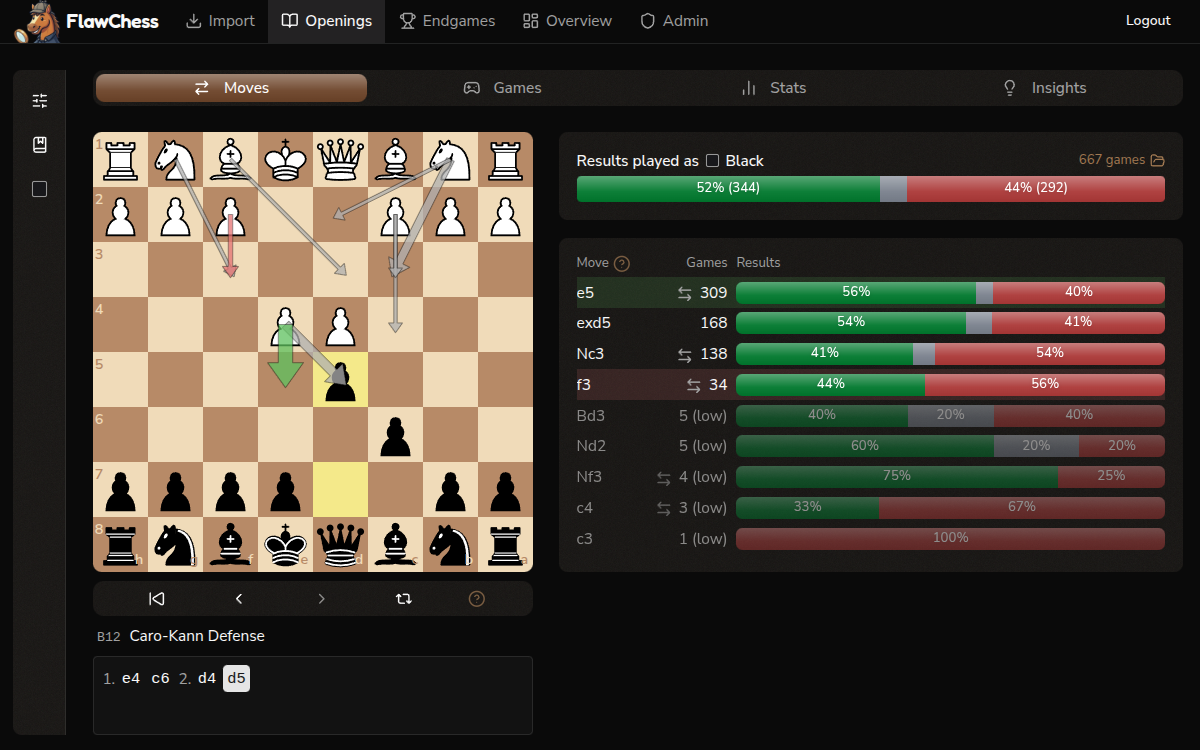
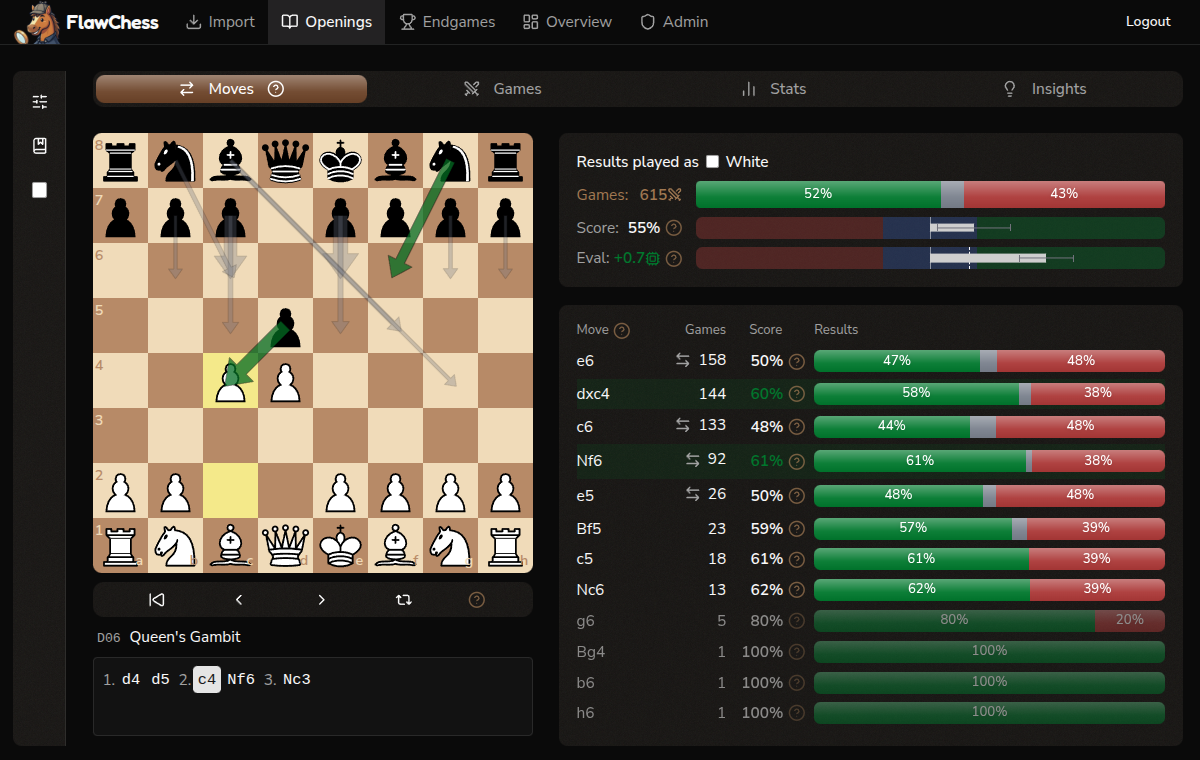
docs(home): rework homepage copy after Stockfish integration
Promote Opening Explorer to hero feature, tighten subtitle and bullets to
verb-first phrasing, replace 'all-in-one' overpromise with 'across your
games' framing, add chess-engine FAQ entry and Stockfish acknowledgement,
refresh opening-explorer screenshot.

diff --git a/frontend/src/pages/Home.tsx b/frontend/src/pages/Home.tsx
@@ -18,7 +18,8 @@ import { cn } from '@/lib/utils';
 import { Scale, Filter, TrophyIcon, Timer, Compass, Loader2, UserPlus, DoorOpen } from 'lucide-react';
 import type { LucideIcon } from 'lucide-react';
 
-// Feature sections — imagePosition alternates right/left so text and image swap sides on desktop.
+// Feature sections — the first entry is rendered in the hero (desktop right column +
+// mobile standalone section); the rest alternate image left/right below.
 // All screenshots are landscape orientation with a 2fr/3fr text/image ratio.
 const FEATURES: {
   slug: string;
@@ -33,11 +34,24 @@ const FEATURES: {
     icon: Compass,
     heading: 'Opening Explorer & Insights',
     desc: [
-        "Step through any opening and see your win/draw/loss rate for every move you\u2019ve played.",
-        'Automatically scan all your games 16 half-moves deep to surface opening strengths and weaknesses.',
-        "Scout your opponents\u2019 weaknesses and tendencies before a match.",
+        'Get a detailed statistical analysis for every move you’ve played.',
+        'Compare your win/draw/loss rate to the Stockfish evaluation at the end of the opening.',
+        'Scan the first 8 moves of all your games to surface opening strengths and weaknesses.',
+        'Scout your opponent\'s repertoire before a match.',
     ],
-    screenshot: { src: '/screenshots/opening-explorer.png', alt: 'Board with move explorer showing win/draw/loss bars per candidate move' },
+    screenshot: { src: '/screenshots/opening-explorer.png', alt: 'Board with move explorer showing win/draw/loss rate and stockfish evaluation per candidate move' },
+    imagePosition: 'right',
+  },
+  {
+    slug: 'endgame-analytics',
+    icon: TrophyIcon,
+    heading: 'Endgame Analytics',
+    desc: [
+      'Measure how well you convert winning endgames and recover from losing ones.',
+      'Track your Endgame ELO over time by platform and time control.',
+      'Get personalized feedback on what your stats mean.',
+    ],
+    screenshot: { src: '/screenshots/endgame-metrics-and-elo-llm-badge.png', alt: 'Endgame metrics and Endgame ELO timeline over time' },
     imagePosition: 'left',
   },
   {
@@ -46,8 +60,8 @@ const FEATURES: {
     heading: 'Time Management Stats',
     desc: [
         'See your average time advantage or deficit when entering the endgame.',
-        'Find out if you crack more than your opponents under matching time-pressure levels.',
-        'Track whether you flag more or less than your opponents per time control.',
+        'Find out if you crack under time pressure more than your opponents.',
+        'Compare your flag rate to your opponents\' per time control.',
     ],
     screenshot: { src: '/screenshots/time-management-stats.png', alt: 'Average clock difference over time and time-pressure-vs-performance charts' },
     imagePosition: 'right',
@@ -58,8 +72,8 @@ const FEATURES: {
     heading: 'Opening Comparison and Tracking',
     desc: [
         'Bookmark your favorite openings and compare their performance.',
-        'Find out how your opening study impacts your win rate over time.',
-        'Use the filters to see which openings work best for which time controls.',
+        'See how your opening study impacts your win rate over time.',
+        'Filter by time control to find which openings work best where.',
     ],
     screenshot: { src: '/screenshots/opening-comparison.png', alt: 'Win rate trends over time for multiple openings' },
     imagePosition: 'left',
@@ -69,9 +83,9 @@ const FEATURES: {
     icon: Filter,
     heading: 'System Opening Filter',
     desc: [
-        'You play the London, but your analysis tool scatters your games across 5 different opening names.',
-        "FlawChess lets you filter by your pieces only, ignoring your opponent\u2019s responses.",
-        'Calculate win/draw/loss rates for your system openings across all variations.',
+        'Group system openings (like the London) across all variations.',
+        'Filter by your pieces only, ignoring opponents\' responses.',
+        'Get win/draw/loss rates for the entire system, not scattered names.',
     ],
     screenshot: { src: '/screenshots/system-openings.png', alt: 'Opening bookmarks grouping system opening variations' },
     imagePosition: 'right',
@@ -79,6 +93,14 @@ const FEATURES: {
 ];
 
 // ─── Homepage content (unauthenticated) ───────────────────────────────────────
+
+// Hero shows the first feature in its right column (desktop) and as a standalone
+// charcoal section (mobile). The remaining features render in the alternating
+// screenshots grid below.
+const heroFeature = FEATURES[0]!;
+const featureSections = FEATURES.slice(1);
+const HeroIcon = heroFeature.icon;
+const heroDescItems = Array.isArray(heroFeature.desc) ? heroFeature.desc : [heroFeature.desc];
 
 export function HomePageContent() {
   const { loginAsGuest, isLoading } = useAuth();
@@ -117,7 +139,7 @@ export function HomePageContent() {
               </span>
             </h1>
             <p className="mt-4 text-base leading-relaxed text-muted-foreground">
-              Import games from chess.com and lichess. Explore openings move by move, track endgame performance, and find exactly where you win and lose.
+              Free analysis across your chess.com and lichess games, with AI-narrated insights. Find leaks in your openings, endgames, and time management.
             </p>
             <div className="mt-8 flex flex-row items-center justify-center gap-3">
               <Button
@@ -163,54 +185,53 @@ export function HomePageContent() {
             </div>
           </div>
 
-          {/* Right column: Endgame Analytics preview — lg and up only.
+          {/* Right column: hero feature preview — lg and up only.
               Title → image → bullets stacking matches the feature sections below.
               Below lg the preview renders as a standalone charcoal section further down. */}
-          <div data-testid="hero-endgame-preview" className="hidden lg:block">
-            <h2 className="text-2xl font-bold mb-4">Endgame Analytics</h2>
+          <div data-testid="hero-feature-preview" className="hidden lg:block">
+            <div className="flex items-center gap-4 mb-4">
+              <HeroIcon className="h-10 w-10 text-muted-foreground shrink-0" strokeWidth={1.5} />
+              <h2 className="text-2xl font-bold">{heroFeature.heading}</h2>
+            </div>
             <img
-              src="/screenshots/endgame-metrics-and-elo-llm-badge.png"
-              alt="Endgame metrics and Endgame ELO timeline over time"
+              src={heroFeature.screenshot.src}
+              alt={heroFeature.screenshot.alt}
               className="rounded-lg border border-border shadow-md w-full mb-4"
             />
             <ul className="list-disc pl-5 space-y-1 text-base leading-relaxed text-muted-foreground">
-              <li>Measure how well you convert winning endgames and recover from losing ones.</li>
-              <li>Track your Endgame ELO over time by platform and time control.</li>
-              <li>Get personalized feedback explaining what your endgame stats mean.</li>
+              {heroDescItems.map((item, i) => <li key={i}>{item}</li>)}
             </ul>
           </div>
         </div>
       </section>
       </div>
 
-      {/* Endgame Analytics — standalone section (mobile / small desktop only).
+      {/* Hero feature — standalone section (mobile / small desktop only).
           Title → image → bullets, matching the feature sections below. Hidden on lg+
           because the hero's right column already shows the same content there. */}
       <section
-        data-testid="feature-endgame-analytics-mobile"
+        data-testid={`feature-${heroFeature.slug}-mobile`}
         className="lg:hidden bg-[#1a1a1a] py-12"
       >
         <div className="max-w-5xl mx-auto px-4 flex flex-col gap-6">
           <div className="flex items-center gap-4">
-            <TrophyIcon className="h-10 w-10 text-muted-foreground shrink-0" strokeWidth={1.5} />
-            <h2 className="text-2xl font-bold">Endgame Analytics</h2>
+            <HeroIcon className="h-10 w-10 text-muted-foreground shrink-0" strokeWidth={1.5} />
+            <h2 className="text-2xl font-bold">{heroFeature.heading}</h2>
           </div>
           <img
-            src="/screenshots/endgame-metrics-and-elo-llm-badge.png"
-            alt="Endgame metrics and Endgame ELO timeline over time"
+            src={heroFeature.screenshot.src}
+            alt={heroFeature.screenshot.alt}
             className="rounded-lg border border-border shadow-md w-full"
           />
           <ul className="list-disc pl-5 space-y-1 text-base leading-relaxed text-muted-foreground">
-            <li>Measure how well you convert winning endgames and recover from losing ones.</li>
-              <li>Track your Endgame ELO over time by platform and time control.</li>
-              <li>Get personalized feedback explaining what your endgame stats mean.</li>
+            {heroDescItems.map((item, i) => <li key={i}>{item}</li>)}
           </ul>
         </div>
       </section>
 
-      {/* Feature sections — alternating image left/right */}
+      {/* Feature sections — alternating image left/right (skips the hero feature) */}
       <div id="features" data-testid="screenshots-section" className="scroll-mt-16">
-        {FEATURES.map(({ slug, icon: Icon, heading, desc, screenshot, imagePosition }, index) => {
+        {featureSections.map(({ slug, icon: Icon, heading, desc, screenshot, imagePosition }, index) => {
           // On desktop, even-indexed features get charcoal bg. On mobile the Interactive
           // Opening Explorer (charcoal) sits in front of the feature list, so the mobile
           // alternation is flipped: odd-indexed features get charcoal on mobile to avoid
@@ -339,6 +360,14 @@ export function HomePageContent() {
               filterable by time control, color, and recency.
             </AccordionContent>
           </AccordionItem>
+          <AccordionItem value="engine" data-testid="faq-item-engine">
+            <AccordionTrigger>Does FlawChess use a chess engine?</AccordionTrigger>
+            <AccordionContent>
+              Yes. Stockfish 18 evaluates key transition positions in your games (end of opening,
+              endgame entry) so we can compare your actual results against the engine's
+              verdict.
+            </AccordionContent>
+          </AccordionItem>
           <AccordionItem value="requests" data-testid="faq-item-requests">
             <AccordionTrigger>Where can I make feature requests?</AccordionTrigger>
             <AccordionContent>
@@ -429,6 +458,17 @@ export function HomePageContent() {
               python-chess
             </a>{' '}
             &mdash; chess logic, move generation, and Zobrist hashing
+          </li>
+          <li>
+            <a
+              href="https://stockfishchess.org"
+              className="text-primary underline-offset-4 hover:underline"
+              target="_blank"
+              rel="noopener noreferrer"
+            >
+              Stockfish
+            </a>{' '}
+            &mdash; open-source chess engine for position evaluation
           </li>
           <li>
             <a
